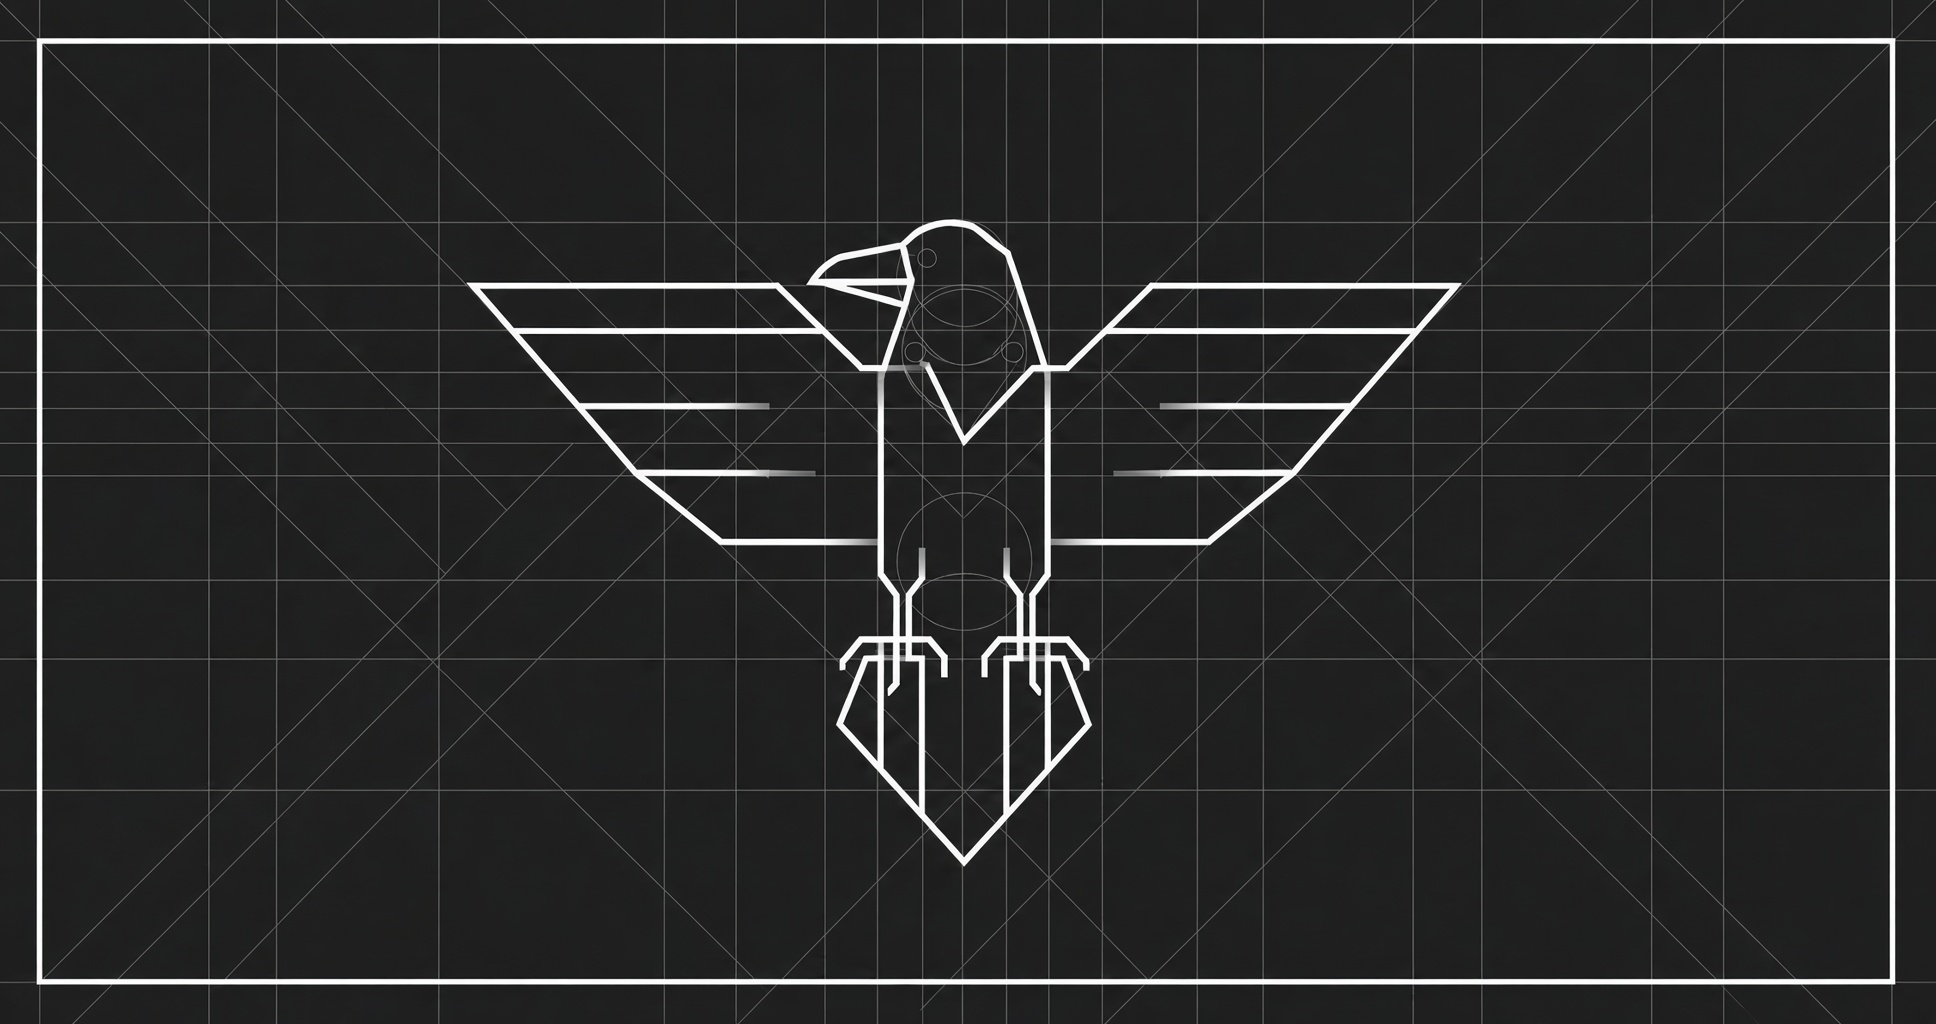
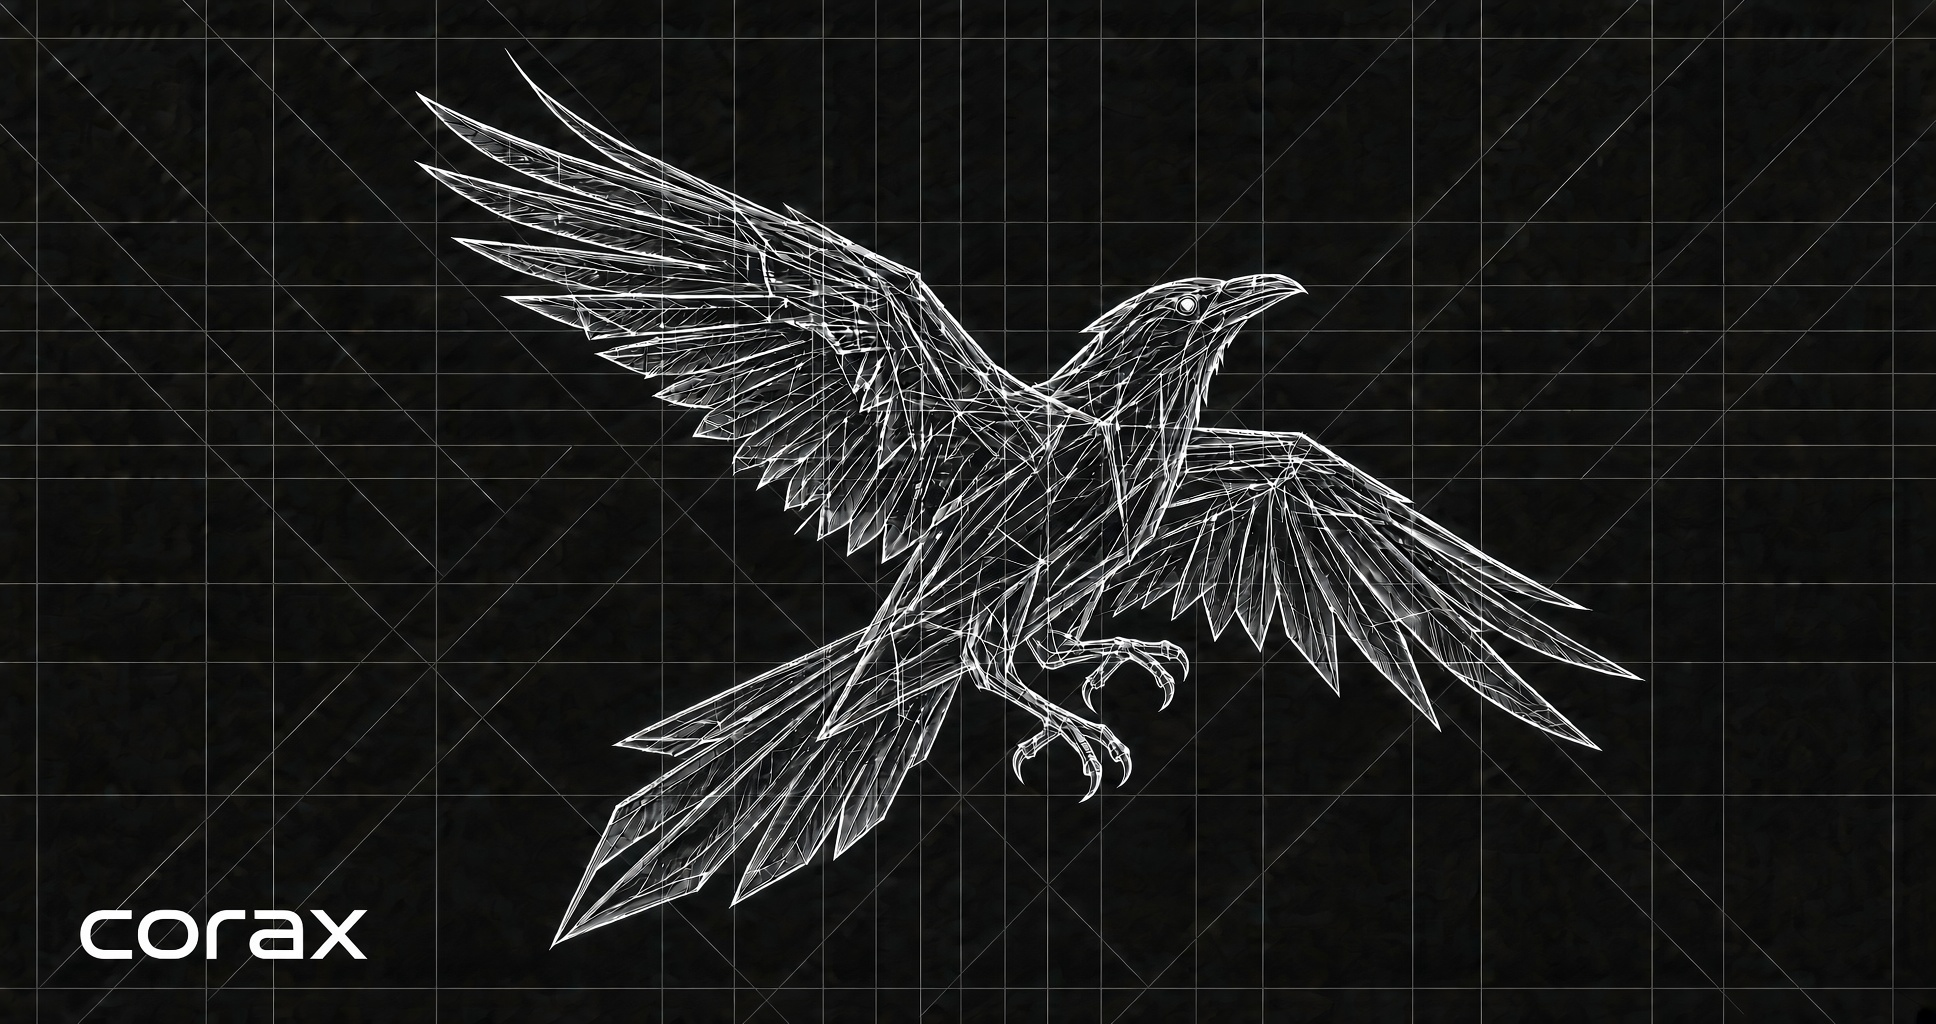
New project graphic (#2)
* New project graphic

Replaces the line-icon raven with the wireframe one, wordmark included.

corax-banner.jpg is the new artwork at its native 1936x1024. The other two are
resized from the same pair of sources, keeping their existing dimensions so the
README link and anything pointing at them from outside stay put.

* Release 0.4.1

diff --git a/CHANGELOG.md b/CHANGELOG.md
@@ -7,6 +7,16 @@ and this project adheres to [Semantic Versioning](https://semver.org/spec/v2.0.0
 
 ## [Unreleased]
 
+## [0.4.1] - 2026-09-11
+
+### Changed
+
+- New project graphic. The line-icon raven is replaced by a wireframe one with
+  the wordmark on it. `assets/corax-banner.jpg` is the artwork at its native
+  size; the og image and the square mark are resized from the same pair of
+  sources. Every filename and dimension is unchanged, so the README link and
+  anything pointing at them from outside stay put.
+
 ## [0.4.0] - 2026-09-11
 
 ### Added
